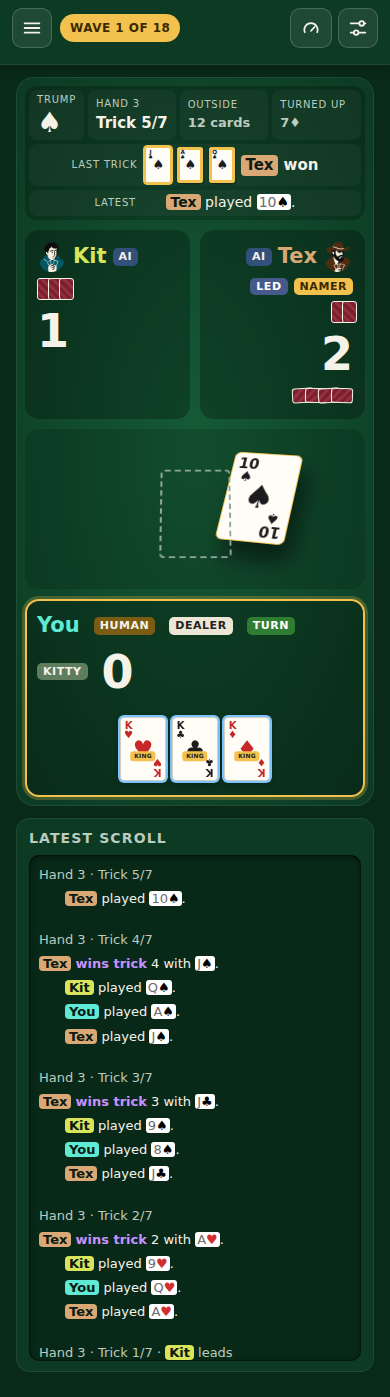
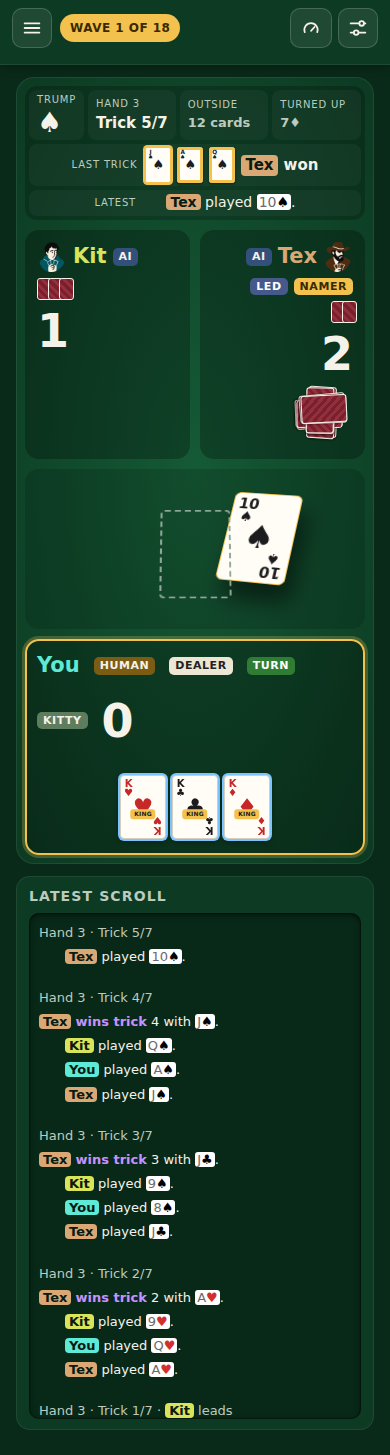
Lay won tricks as one criss-cross pile
Each won trick is a rough stack of three backs, crosswise to the trick
below it, in one pile big enough to click. The layers can be counted
the way they are at a real table.

Claude-Session: https://claude.ai/code/session_01QkpazkapUFZWg4SWZB1dDA

diff --git a/mockups/advanced.js b/mockups/advanced.js
@@ -37,10 +37,11 @@ const css = `
 .seat-east{align-items:flex-end}
 .seat-east .score-row{justify-content:flex-end}
 .seat .seat-head{order:0}.seat .backs{order:1}.seat .score-row{order:2}.seat .won{order:3}
-.won{display:flex;align-items:center;min-height:24px;padding-right:9px}
-.won .mini-back{width:22px;height:15px;margin-right:-9px;background:repeating-linear-gradient(-45deg,#7a1f2b 0 3px,#93303d 3px 6px);transform:rotate(-3deg)}
-.won .mini-back:nth-child(2n){transform:rotate(2deg)}
-.seat-east .won{justify-content:flex-end}
+.won{all:unset;position:relative;display:block;width:64px;height:64px;cursor:pointer;border-radius:8px}
+.won:hover{background:rgba(255,255,255,.06)}.won:focus-visible{outline:2px solid var(--gold);outline-offset:2px}
+.seat-east .won{align-self:flex-end}
+.won .wt{position:absolute;left:50%;top:50%;width:28px;height:46px;margin:-23px 0 0 -14px}
+.won .wt span{position:absolute;inset:0;border-radius:3px;border:1px solid #f5f2e9;background:repeating-linear-gradient(45deg,#7a1f2b 0 3px,#93303d 3px 6px);box-shadow:0 1px 2px rgba(0,0,0,.45)}
 /* Trick cards in 3D: the table tilts away from you, each bot card turns to face your slot, lifted and larger. */
 .trick{perspective:900px;perspective-origin:50% 120%;min-height:calc(var(--cw)*2.7)!important;padding:18px 10px 14px!important}
 .trick .slot{transform-style:preserve-3d}
@@ -71,7 +72,11 @@ for (const s of $$('#seat1,#seat2,#seat0')) {
   const tags = $$('.tag', head).sort((a, b) => order.findIndex(c => a.classList.contains(c)) - order.findIndex(c => b.classList.contains(c)));
   const score = $('.score', head); tags.forEach(t => head.insertBefore(t, score && score.parentNode === head ? score : null));
   const tr = $('.tricks', s), n = +($('b', tr) || {}).textContent || 0;
-  tr.outerHTML = '<div class="won" aria-label="' + n + ' tricks won">' + '<span class="mini-back"></span>'.repeat(n) + '</div>';
+  // Won tricks: one pile; each trick is a rough stack of three backs, crosswise to the trick below.
+  const jit = (i, k) => ((i * 7 + k * 13) % 5) - 2;
+  const tricks = Array.from({ length: n }, (_, i) => '<div class="wt" style="transform:translate(' + jit(i, 1) + 'px,' + (-i * 2 + jit(i, 2) / 2) + 'px) rotate(' + ((i % 2 ? 90 : 0) + jit(i, 3) * 2) + 'deg)">' +
+    [0, 1, 2].map(k => '<span style="transform:translate(' + jit(i + k, 4) / 2 + 'px,' + jit(i + k, 5) / 2 + 'px) rotate(' + jit(i + k, 6) + 'deg)"></span>').join('') + '</div>').join('');
+  tr.outerHTML = n ? '<button type="button" class="won" aria-label="' + n + (n === 1 ? ' trick' : ' tricks') + ' won" title="' + n + (n === 1 ? ' trick' : ' tricks') + ' won">' + tricks + '</button>' : '<div class="won" aria-hidden="true"></div>';
 }
 // KING tag on full-size Kings only (not the small last-trick cards).
 for (const c of $$('.card[data-card^="K"]')) if (!c.closest('.lasttrick') && !$('.c-tag', c)) c.insertAdjacentHTML('beforeend', '<span class="c-tag king">KING</span>');

diff --git a/index.html b/index.html
@@ -2049,7 +2049,7 @@ const UI_PROFILE_ADVANCED = Object.freeze({
   '.seat-name': { kind: 'L', show: 'The name in its color, larger than now. Aligned to the seat\'s outer edge.', click: null, issue: 53 },
   '.tag': { kind: 'L', show: 'Word tags in one fixed order: Human/AI, Dealer, Turn, Namer, Kitty, Led, then Mediator or Showdown. New: Turn and Led. Mirrored with the seat.', click: null, issue: 53 },
   '.score': { kind: 'S', show: 'The score as a larger number, without "/10". Mirrored with the seat.', click: null, issue: 53 },
-  '.tricks': { kind: 'S', show: 'A face-down stack of won tricks, one small back per trick. A Showdown adds a second stack.', click: 'When the "Look back at won tricks" setting is on (default off): a popup shows the cards of each trick in the stack. When it is off, the stack is not a control.', issue: 53 },
+  '.tricks': { kind: 'S', show: 'One face-down pile of won tricks, below the score, big enough to click (64 px). Each trick is a rough stack of three backs, laid crosswise to the trick below it (vertical, horizontal, vertical, ...), so the layers can be counted. A Showdown adds a second pile.', click: 'When the "Look back at won tricks" setting is on (default off): a popup shows the cards of each trick in the stack. When it is off, the stack is not a control.', issue: 53 },
   '.backs': { kind: 'S', show: 'One small back for each card in the hand, above the score. Seat order: head, hand backs, score, won-trick stack.', click: null, issue: 53 },
   '.discard-note': { kind: 'S', show: 'No text. The discarded backs slide from the hand to the outside pile.', click: null, issue: 53 },
   '.bubble': { kind: 'S', show: 'As now: "Pass", "Accepts ♠", "Names ♥ Hearts".', click: null },
